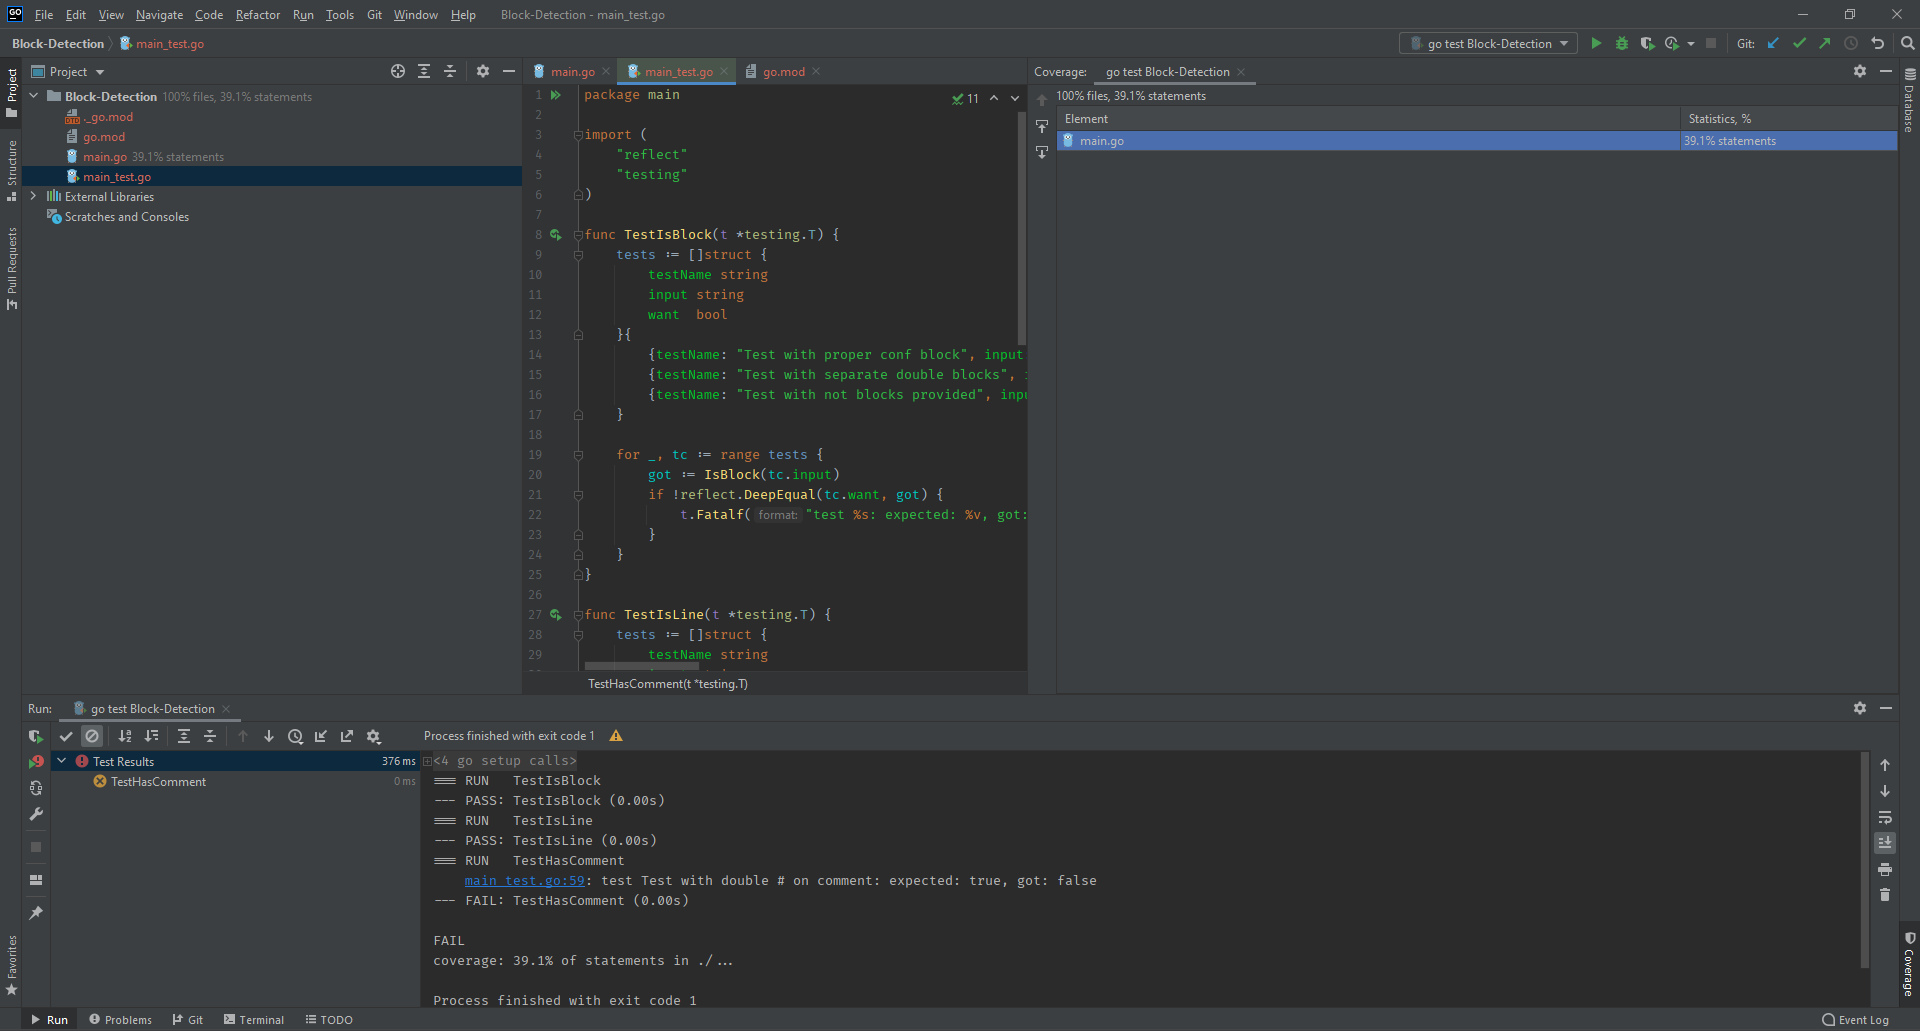
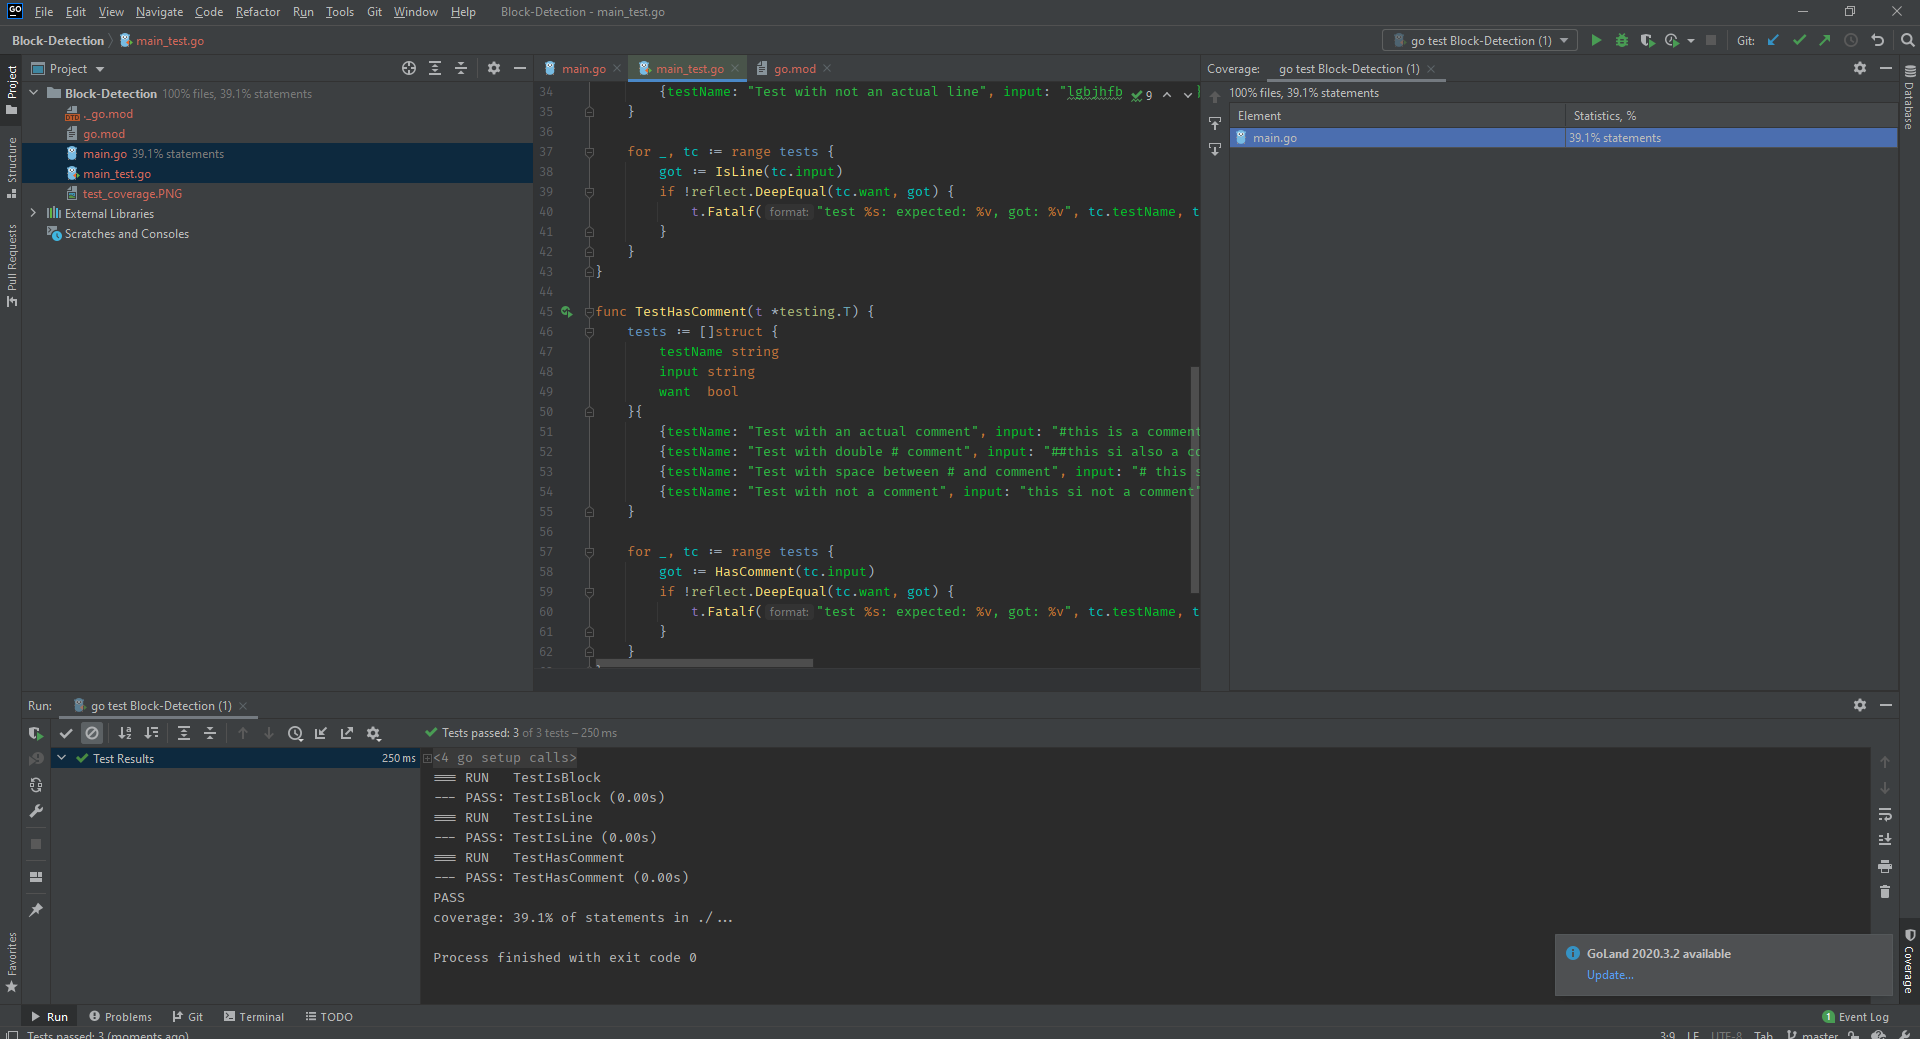
Fix regex for comment

diff --git a/BlockDetection/main_test.go b/BlockDetection/main_test.go
@@ -48,9 +48,10 @@ func TestHasComment(t *testing.T) {
 		input string
 		want  bool
 	}{
-		{testName: "Test with an actual comment", input: "#this si a comment", want: true},
-		{testName: "Test with double # on comment", input: "##this si also a commnet", want: true},
-		{testName: "Test with not a comment", input: "this si not a commnet", want: false},
+		{testName: "Test with an actual comment", input: "#this is a comment", want: true},
+		{testName: "Test with double # comment", input: "##this si also a comment", want: true},
+		{testName: "Test with space between # and comment", input: "# this si also a comment", want: true},
+		{testName: "Test with not a comment", input: "this si not a comment", want: false},
 	}
 
 	for _, tc := range tests {
@@ -60,4 +61,5 @@ func TestHasComment(t *testing.T) {
 		}
 	}
 }
+
 

diff --git a/BlockDetection/main.go b/BlockDetection/main.go
@@ -36,7 +36,7 @@ func IsLine(line string) bool {
 }
 
 func HasComment(line string) bool {
-	b, _ := regexp.MatchString(`#[^\n\r]+(?:[\n\r]|\*\))$`, line)
+	b, _ := regexp.MatchString(`\B(\#\s?[a-zA-Z]+\b)`, line)
 	return b
 }
 
@@ -67,7 +67,7 @@ func GetNginxBlocks(configContent string) *NginxBlocks {
 }
 
 func main() {
-	configContent := `server { # simple reverse-proxy
+	ConfigContent := `server { # simple reverse-proxy
     listen       80;
     server_name  domain2.com www.domain2.com;
     access_log   logs/domain2.access.log  main;
@@ -84,7 +84,7 @@ func main() {
     }
 }`
 
-	ngx := GetNginxBlocks(configContent)
+	ngx := GetNginxBlocks(ConfigContent)
 	fmt.Println(*ngx)
 
 }
